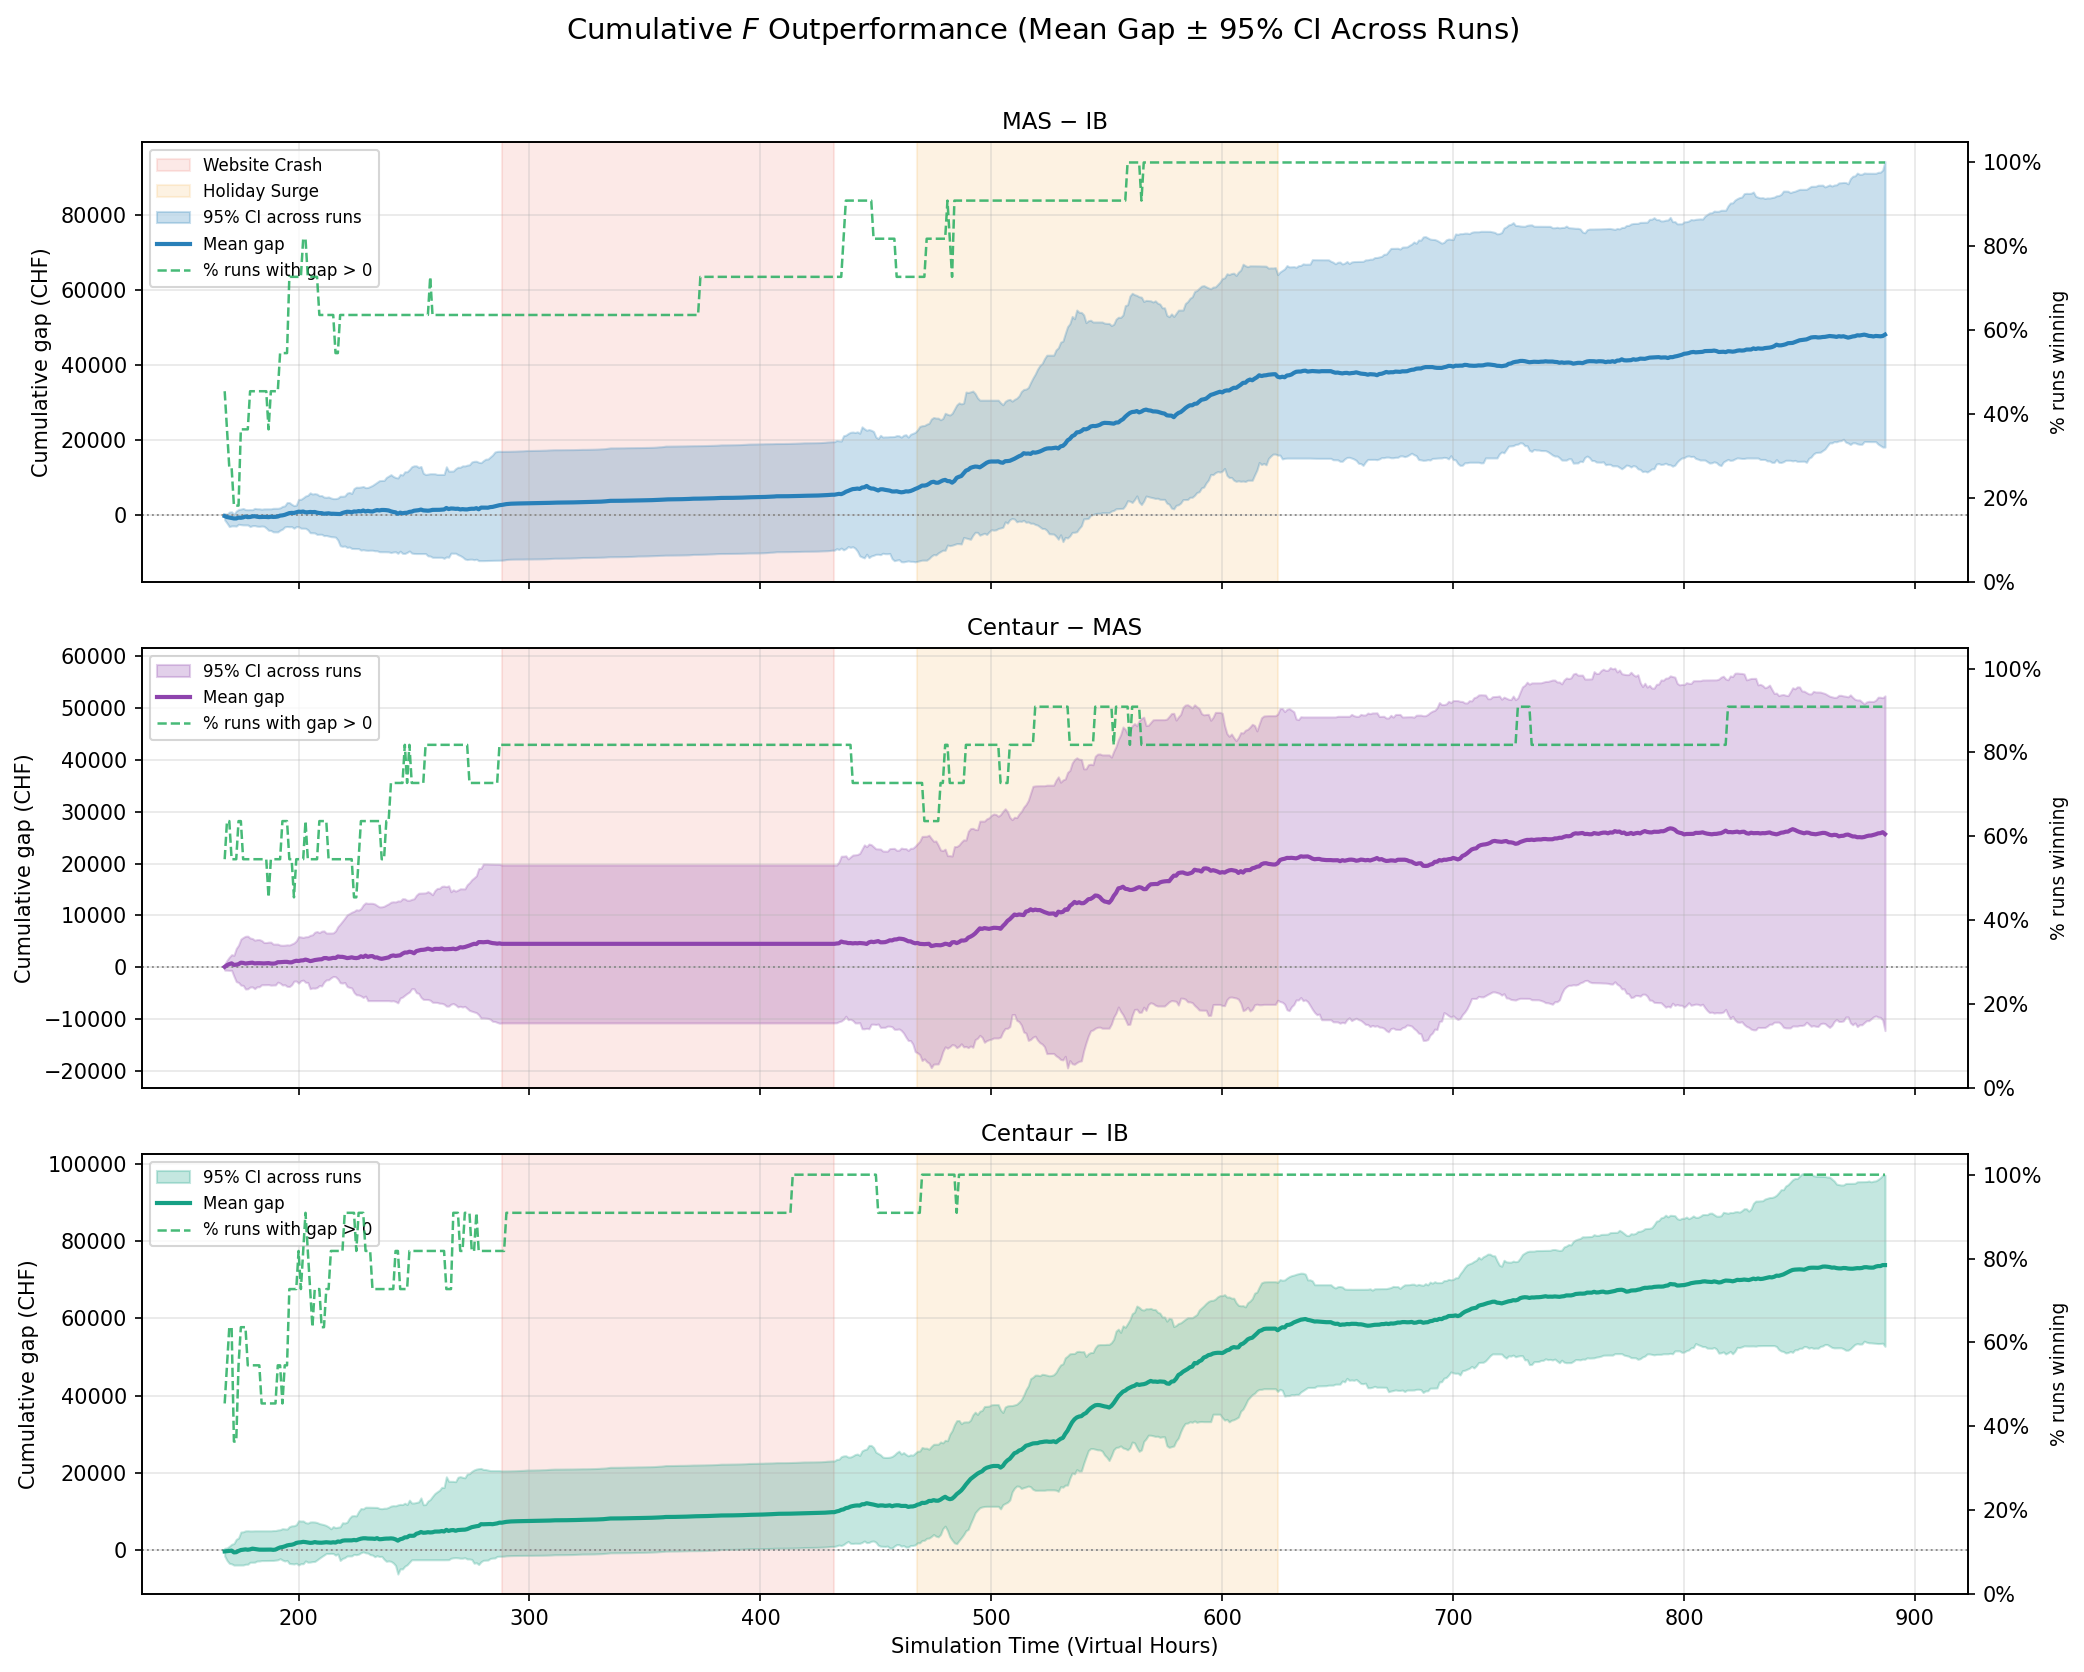
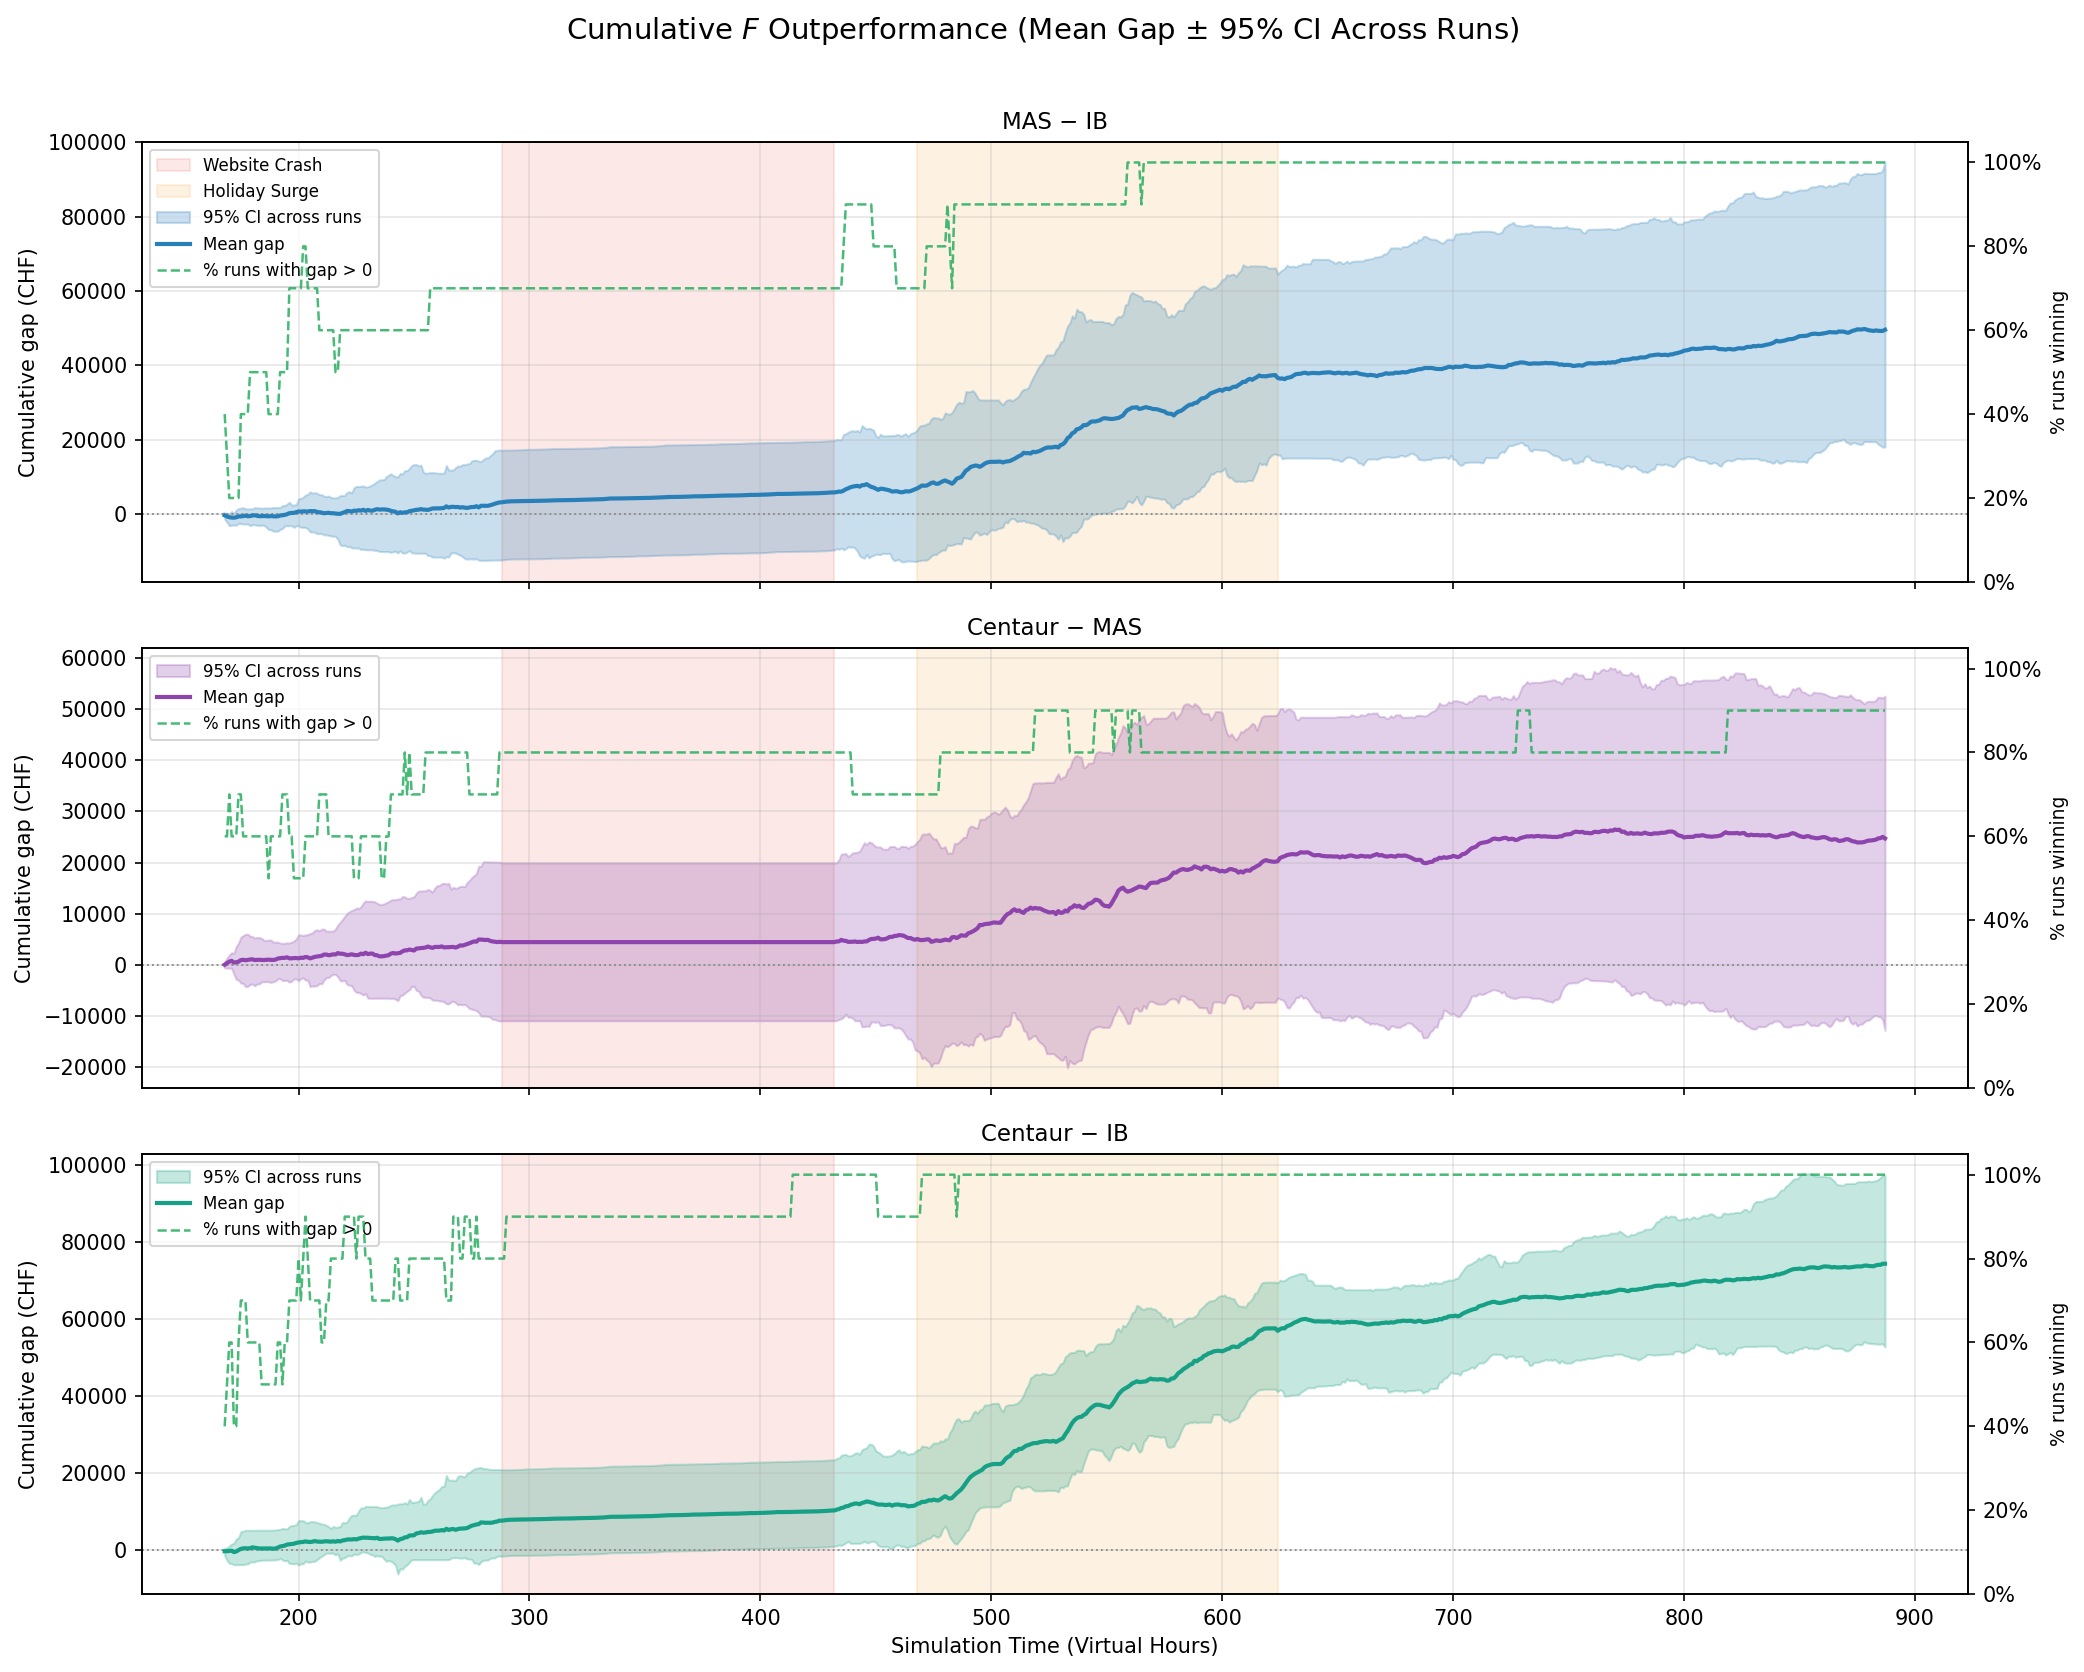
update policy comparison plots

diff --git a/policy_comparator.py b/policy_comparator.py
@@ -11,6 +11,9 @@ Usage
 -----
     python policy_comparator.py
     python policy_comparator.py --data-dir data --bootstrap 10000
+    python policy_comparator.py --exclude ""          # include every discovered run
+
+By default, stamp ``seed42_run2`` is excluded from cross-run comparison.
 """
 
 from __future__ import annotations
@@ -57,6 +60,9 @@ PAIRWISE = (
 )
 OPTi_GLOB = "optimization_function_results_seed*_run*.csv"
 
+# Stamps omitted from cross-run policy comparison (e.g. extra pilot runs).
+DEFAULT_EXCLUDE_STAMPS: frozenset[str] = frozenset({"seed42_run2"})
+
 OUT_RUN_LEVEL = "data/policy_comparison_run_level.csv"
 OUT_SUMMARY = "data/policy_comparison_summary.csv"
 OUT_SEGMENT = "data/policy_comparison_segment.csv"
@@ -99,14 +105,27 @@ class PairedResult:
 # ---------------------------------------------------------------------------
 # Discovery & loading
 # ---------------------------------------------------------------------------
-def discover_opti_files(data_dir: str) -> List[str]:
+def discover_opti_files(
+    data_dir: str,
+    exclude_stamps: Optional[frozenset[str]] = None,
+) -> List[str]:
     pattern = os.path.join(data_dir, OPTi_GLOB)
     files = sorted(glob.glob(pattern))
     if not files:
         fallback = os.path.join(data_dir, "optimization_function_results.csv")
         if os.path.exists(fallback):
-            return [fallback]
-    return files
+            files = [fallback]
+    excluded = exclude_stamps if exclude_stamps is not None else DEFAULT_EXCLUDE_STAMPS
+    if not excluded:
+        return files
+    kept: List[str] = []
+    for path in files:
+        key = _parse_stamp(path)
+        stamp = key.stamp if key else ""
+        if stamp in excluded:
+            continue
+        kept.append(path)
+    return kept
 
 
 def _parse_stamp(path: str) -> Optional[RunKey]:
@@ -566,14 +585,22 @@ def plot_final_f_bars(pivot: pd.DataFrame, out_path: str) -> None:
 # ---------------------------------------------------------------------------
 # Main
 # ---------------------------------------------------------------------------
-def run(data_dir: str = "data", n_boot: int = 10000) -> None:
+def run(
+    data_dir: str = "data",
+    n_boot: int = 10000,
+    exclude_stamps: Optional[frozenset[str]] = None,
+) -> None:
     os.makedirs(data_dir, exist_ok=True)
-    files = discover_opti_files(data_dir)
+    excluded = exclude_stamps if exclude_stamps is not None else DEFAULT_EXCLUDE_STAMPS
+    files = discover_opti_files(data_dir, exclude_stamps=excluded)
     if not files:
         print(f"No optimization CSVs found in {data_dir!r}. Run run_all.py first.")
         return
 
-    print(f"=== Policy Comparator ({len(files)} runs) ===\n")
+    print(f"=== Policy Comparator ({len(files)} runs) ===")
+    if excluded:
+        print(f"    Excluded stamps: {', '.join(sorted(excluded))}")
+    print()
     for f in files:
         print(f"  • {f}")
 
@@ -638,6 +665,13 @@ def run(data_dir: str = "data", n_boot: int = 10000) -> None:
     print("\nDone.")
 
 
+def _parse_exclude_stamps(raw: str) -> frozenset[str]:
+    """Comma-separated stamp names, e.g. seed42_run2,seed10_run0."""
+    if not raw.strip():
+        return frozenset()
+    return frozenset(s.strip() for s in raw.split(",") if s.strip())
+
+
 def main() -> None:
     parser = argparse.ArgumentParser(description="Compare IB / MAS / Centaur across all runs.")
     parser.add_argument("--data-dir", default="data", help="Directory with stamped CSVs")
@@ -645,8 +679,20 @@ def main() -> None:
         "--bootstrap", type=int, default=10000,
         help="Bootstrap / permutation iterations",
     )
+    parser.add_argument(
+        "--exclude",
+        default=None,
+        help=(
+            "Comma-separated run stamps to omit (default: seed42_run2). "
+            "Pass empty string to include all discovered runs."
+        ),
+    )
     args = parser.parse_args()
-    run(data_dir=args.data_dir, n_boot=args.bootstrap)
+    if args.exclude is None:
+        exclude = DEFAULT_EXCLUDE_STAMPS
+    else:
+        exclude = _parse_exclude_stamps(args.exclude)
+    run(data_dir=args.data_dir, n_boot=args.bootstrap, exclude_stamps=exclude)
 
 
 if __name__ == "__main__":
